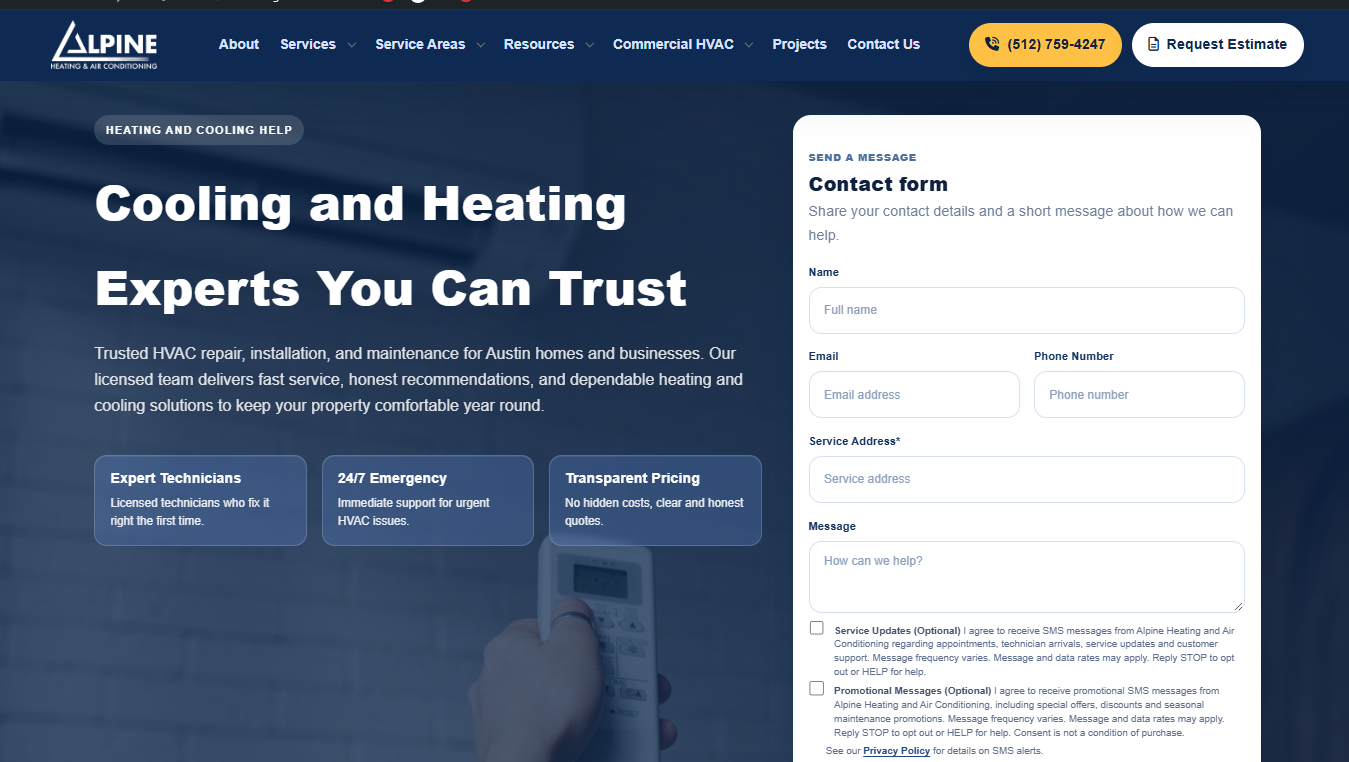
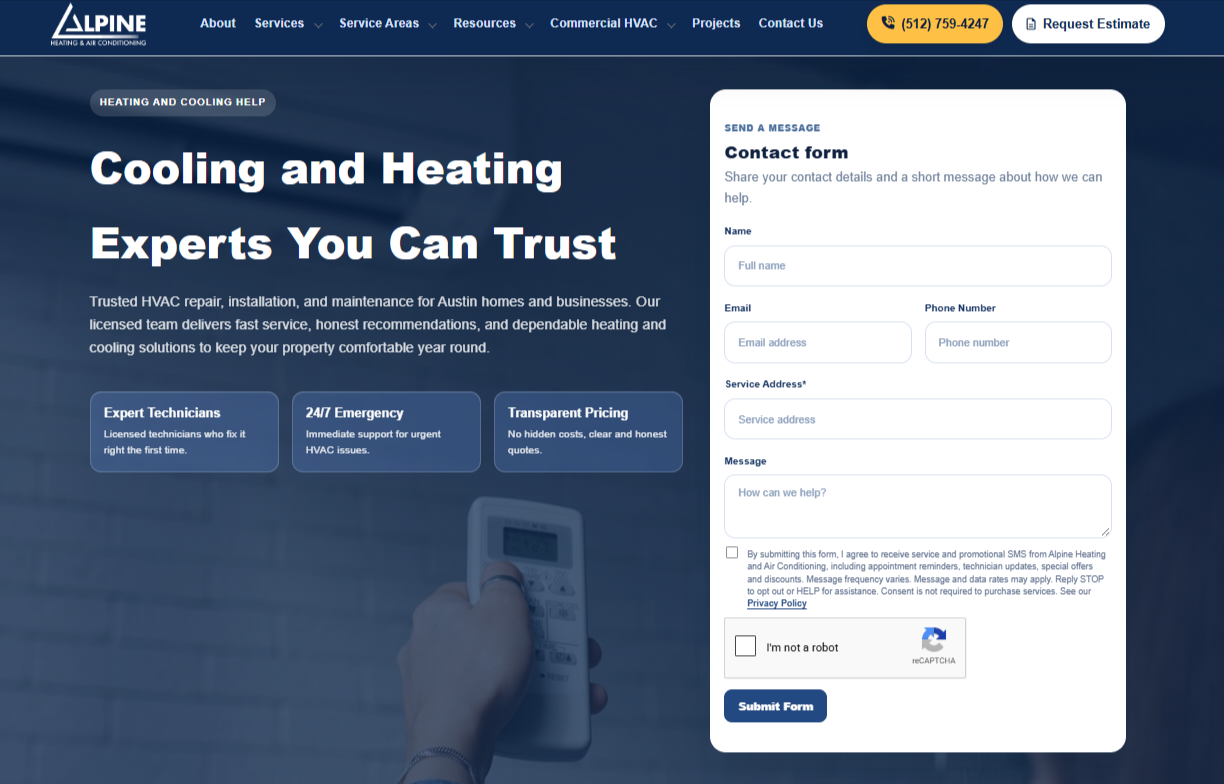
update consent with one checkbox

diff --git a/wp-content/themes/austin-alpine/inc/sms-consent.php b/wp-content/themes/austin-alpine/inc/sms-consent.php
@@ -2,9 +2,7 @@
 /**
  * SMS consent opt-ins for Contact Form 7 forms.
  *
- * Two separate, optional checkboxes: transactional service updates and
- * promotional messages. Keeping them apart is the point — consent to one is
- * never consent to the other, and neither is required to submit the form.
+ * One optional checkbox covering service and promotional messages.
  *
  * Every CF7 form that collects a phone number gets them automatically,
  * inserted directly before the reCAPTCHA widget (or before the submit button
@@ -21,7 +19,7 @@
  * that was actually on screen when the customer agreed.
  */
 if (!defined('ALPINE_SMS_CONSENT_TEXT_VERSION')) {
-    define('ALPINE_SMS_CONSENT_TEXT_VERSION', '2026-09-23');
+    define('ALPINE_SMS_CONSENT_TEXT_VERSION', '2026-09-24');
 }
 
 function alpine_get_sms_consent_privacy_url() {
@@ -31,21 +29,14 @@ function alpine_get_sms_consent_privacy_url() {
 }
 
 /**
- * The two opt-ins, kept separate so a customer can accept service messages
- * without accepting marketing. Both are optional: neither is enforced on
- * submit, and unchecking both must not block the form.
+ * The combined opt-in is optional and is not enforced on submit.
  */
 function alpine_get_sms_consent_options() {
     return array(
         array(
-            'name'  => 'sms-consent-service',
-            'title' => 'Service Updates (Optional)',
-            'text'  => 'I agree to receive SMS messages from Alpine Heating and Air Conditioning regarding appointments, technician arrivals, service updates and customer support. Message frequency varies. Message and data rates may apply. Reply STOP to opt out or HELP for help.',
-        ),
-        array(
-            'name'  => 'sms-consent-promotional',
-            'title' => 'Promotional Messages (Optional)',
-            'text'  => 'I agree to receive promotional SMS messages from Alpine Heating and Air Conditioning, including special offers, discounts and seasonal maintenance promotions. Message frequency varies. Message and data rates may apply. Reply STOP to opt out or HELP for help. Consent is not a condition of purchase.',
+            'name'  => 'sms-consent-combined',
+            'title' => 'Service and Promotional SMS (Optional)',
+            'text'  => 'By submitting this form, I agree to receive service and promotional SMS from Alpine Heating and Air Conditioning, including appointment reminders, technician updates, special offers and discounts. Message frequency varies. Message and data rates may apply. Reply STOP to opt out or HELP for assistance. Consent is not required to purchase services.',
         ),
     );
 }
@@ -55,16 +46,16 @@ function alpine_get_sms_consent_markup() {
 
     foreach (alpine_get_sms_consent_options() as $option) {
         $rows .= sprintf(
-            '<span class="wpcf7-form-control-wrap" data-name="%1$s"><label class="alpine-sms-consent-label"><input type="checkbox" name="%1$s" value="1" class="alpine-sms-consent-checkbox wpcf7-form-control"> <span class="alpine-sms-consent-text"><strong class="alpine-sms-consent-title">%2$s</strong> %3$s</span></label></span>',
+            '<span class="wpcf7-form-control-wrap" data-name="%1$s"><label class="alpine-sms-consent-label"><input type="checkbox" name="%1$s" value="1" class="alpine-sms-consent-checkbox wpcf7-form-control"> <span class="alpine-sms-consent-text">%2$s See our <a href="%3$s">Privacy Policy</a></span></label></span>',
             esc_attr($option['name']),
-            esc_html($option['title']),
-            esc_html($option['text'])
+            esc_html($option['text']),
+            esc_url(alpine_get_sms_consent_privacy_url())
         );
     }
 
     // Unchecked checkboxes post nothing, so without this marker a submission
-    // that declined both boxes is indistinguishable from a form that never
-    // showed them. The consent log needs to tell those two apart.
+    // that declined the checkbox is indistinguishable from a form that never
+    // showed it. The consent log needs to tell those two apart.
     $marker = sprintf(
         '<input type="hidden" name="sms-consent-shown" value="%s">',
         esc_attr(ALPINE_SMS_CONSENT_TEXT_VERSION)
@@ -73,10 +64,9 @@ function alpine_get_sms_consent_markup() {
     // A span, not a div: CF7 wraps rendered tags in <p>, and a block-level
     // element there makes the browser close the paragraph early.
     return sprintf(
-        '<span class="alpine-sms-consent">%s%s<span class="alpine-sms-consent-privacy">See our <a href="%s">Privacy Policy</a> for details on SMS alerts.</span></span>',
+        '<span class="alpine-sms-consent">%s%s</span>',
         $rows,
-        $marker,
-        esc_url(alpine_get_sms_consent_privacy_url())
+        $marker
     );
 }
 
@@ -153,7 +143,6 @@ function alpine_insert_sms_consent_into_cf7_form($form_html) {
 add_filter('wpcf7_form_elements', 'alpine_insert_sms_consent_into_cf7_form', 40);
 
 /**
- * Both opt-ins are optional, so there is deliberately no wpcf7_validate filter
- * here: a submission with neither box checked is valid. The checked values ride
- * along in the posted data under sms-consent-service / sms-consent-promotional.
+ * Consent is optional, so there is deliberately no wpcf7_validate filter here:
+ * an unchecked box is valid. Its value posts under sms-consent-combined.
  */

diff --git a/wp-content/themes/austin-alpine/inc/sms-consent-log.php b/wp-content/themes/austin-alpine/inc/sms-consent-log.php
@@ -196,8 +196,8 @@ function alpine_log_sms_consent($contact_form, $result) {
             'full_name'           => $contact['full_name'],
             'email'               => $contact['email'],
             'phone'               => $contact['phone'],
-            'consent_service'     => $checked['sms-consent-service'],
-            'consent_promotional' => $checked['sms-consent-promotional'],
+            'consent_service'     => $checked['sms-consent-combined'],
+            'consent_promotional' => $checked['sms-consent-combined'],
             'consent_version'     => (string) $posted['sms-consent-shown'],
             'consent_text'        => implode("\n\n", $texts),
             'remote_ip'           => (string) $submission->get_meta('remote_ip'),
